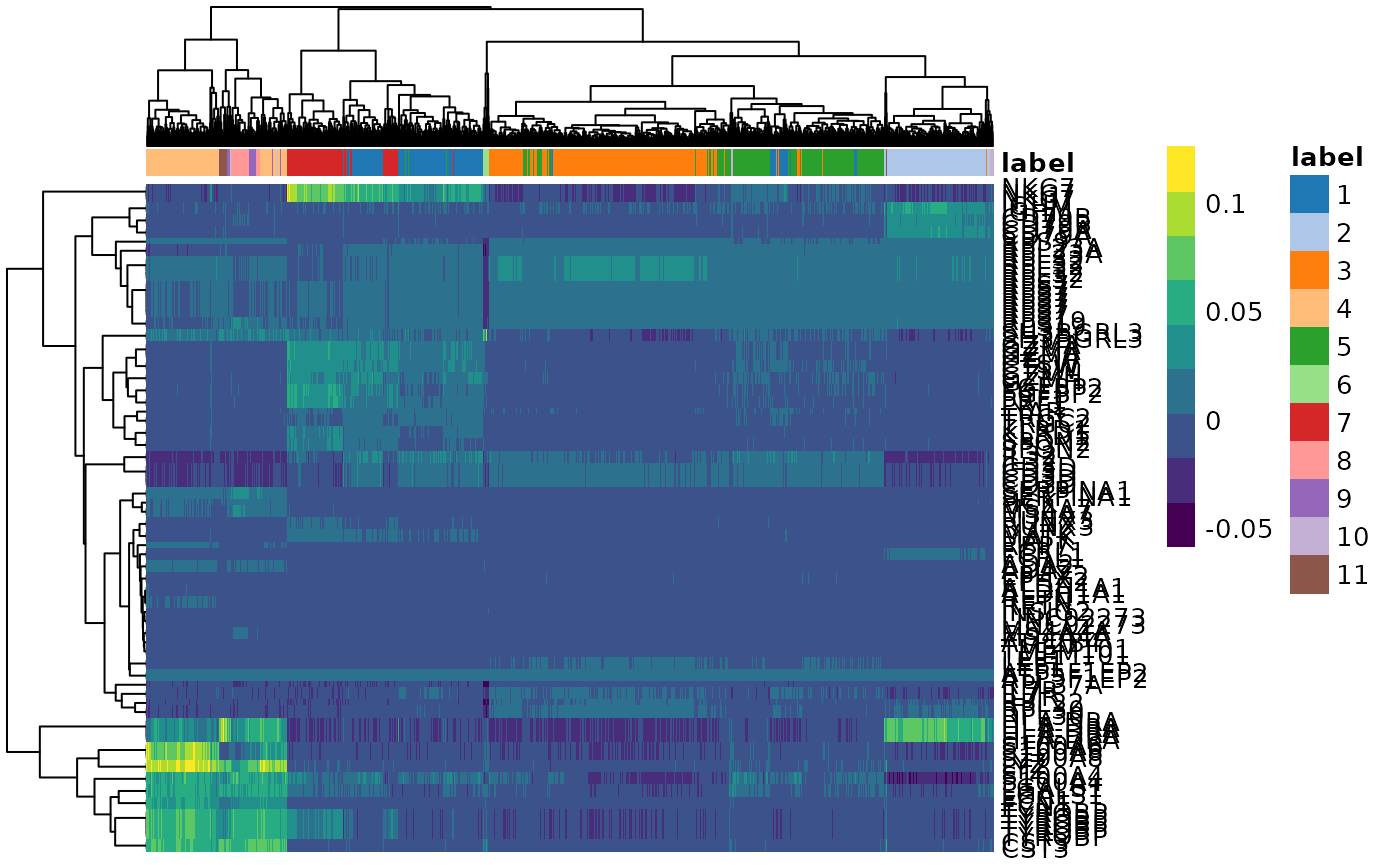
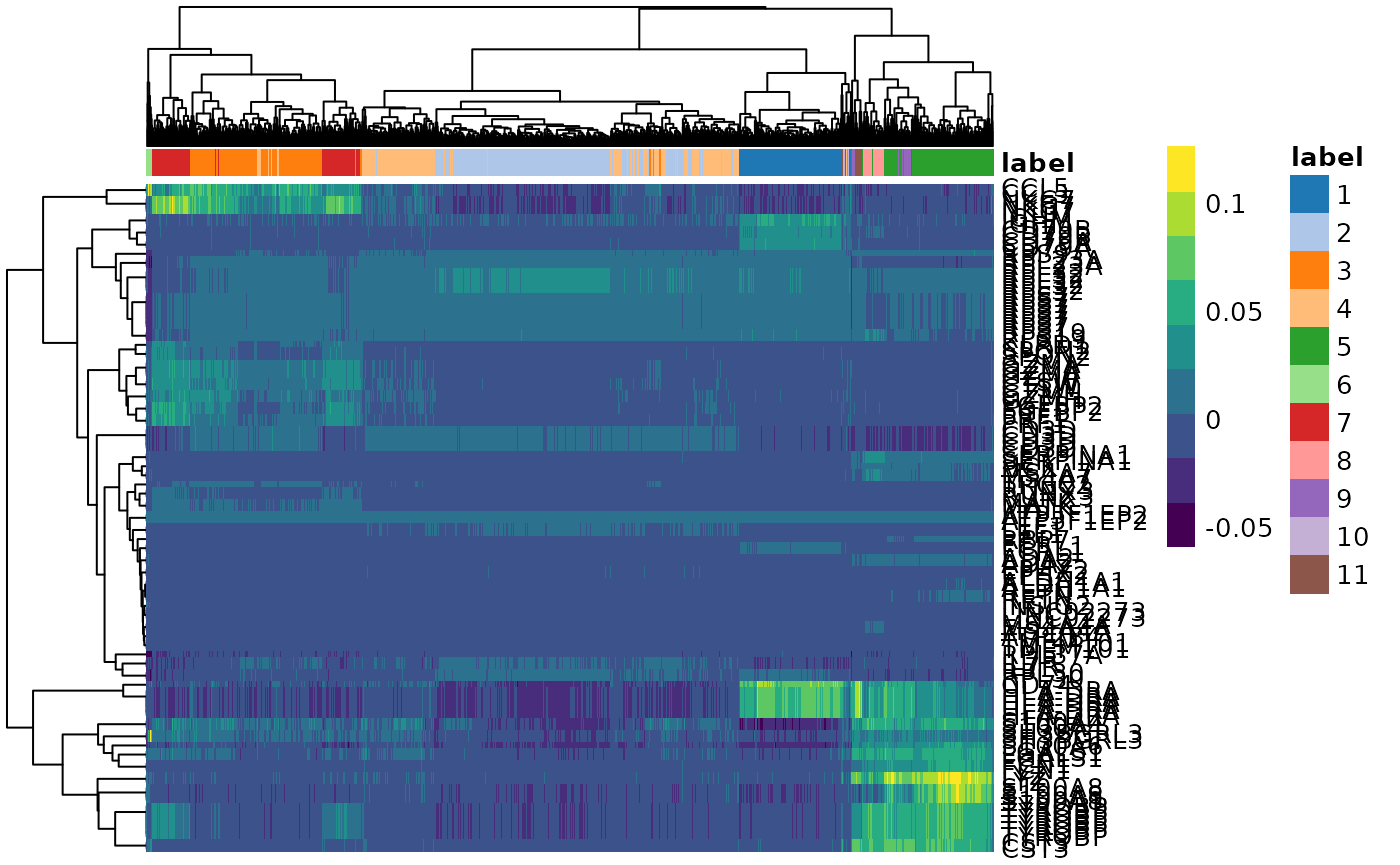
Deploying to gh-pages from  @ f514513d57ef119133c4dfdb3653fa5eb1973ccf 🚀

Changed region(s): [[0.0, 0.0, 0.8293, 0.9988], [0.86, 0.5931, 0.9214, 0.6243], [0.215, 0.0312, 0.2457, 0.0624]]

diff --git a/articles/tidytranscriptomics.html b/articles/tidytranscriptomics.html
@@ -93,8 +93,7 @@
 <div id="workshop-introduction" class="section level1">
 <h1 class="hasAnchor">
 <a href="#workshop-introduction" class="anchor"></a>Workshop introduction</h1>
-<p>Background information and setup instructions for this workshop can be found <a href="https://stemangiola.github.io/bioc2021_tidytranscriptomics/articles/background.html">here</a>.</p>
-<p>This workshop will present how to perform analysis of RNA sequencing data following the tidy data paradigm <span class="citation">(Wickham and others 2014)</span>. The tidy data paradigm provides a standard way to organise data values within a dataset, where each variable is a column, each observation is a row, and data is manipulated using an easy-to-understand vocabulary. Most importantly, the data structure remains consistent across manipulation and analysis functions. This can be achieved for RNA sequencing data with the <a href="https://stemangiola.github.io/tidybulk/">tidybulk</a>, <a href="https://stemangiola.github.io/tidySummarizedExperiment/">tidySummarizedExperiment</a> and <a href="https://stemangiola.github.io/tidySingleCellExperiment/">tidySingleCellExperiment</a> packages. These packages are part of the tidytranscriptomics suite that introduces a tidy approach to RNA sequencing data representation and analysis. The roadmap for the development of the tidytranscriptomics packages is shown in the figure below.</p>
+<p><a href="https://stemangiola.github.io/tidybulk/">tidybulk</a>, <a href="https://stemangiola.github.io/tidySummarizedExperiment/">tidySummarizedExperiment</a> and <a href="https://stemangiola.github.io/tidySingleCellExperiment/">tidySingleCellExperiment</a> are part of the tidytranscriptomics suite that introduces a tidy approach to RNA sequencing data representation and analysis. The roadmap for the development of the tidytranscriptomics packages is shown in the figure below.</p>
 <p><img src="../inst/vignettes/roadmap.png" width="600px"></p>
 </div>
 <div id="part-1-bulk-rna-seq-with-tidysummarizedexperiment-and-tidybulk" class="section level1">
@@ -180,7 +179,7 @@
 <p>If we load the <em>tidySummarizedExperiment</em> package and then view the airway data it now displays as a tibble. A tibble is the tidyverse table format.</p>
 <div class="sourceCode" id="cb4"><pre class="downlit sourceCode r">
 <code class="sourceCode R"><span class="co"># load tidySummarizedExperiment package</span>
-<span class="kw"><a href="https://rdrr.io/r/base/library.html">library</a></span><span class="op">(</span><span class="va">tidySummarizedExperiment</span><span class="op">)</span>
+<span class="kw"><a href="https://rdrr.io/r/base/library.html">library</a></span><span class="op">(</span><span class="va"><a href="https://github.com/stemangiola/tidySummarizedExperiment">tidySummarizedExperiment</a></span><span class="op">)</span>
 
 <span class="co"># take a look</span>
 <span class="va">airway</span>
@@ -674,15 +673,17 @@
   <span class="fu"><a href="https://ggplot2.tidyverse.org/reference/scale_continuous.html">scale_y_continuous</a></span><span class="op">(</span>trans <span class="op">=</span> <span class="st">"log10_reverse"</span><span class="op">)</span> <span class="op">+</span>
   <span class="va">custom_theme</span></code></pre></div>
 <p><img src="tidytranscriptomics_files/figure-html/unnamed-chunk-28-1.png" width="70%"></p>
-<p>A more informative plot, integrating some of the packages in tidyverse.</p>
-<p>We’ll extract the symbols for a few top genes (by P value) to use in some of the plots we will make.</p>
+<p>We’ll extract the symbols for a few top genes (by P value) to use in a more informative volcano plot, integrating some of the packages in tidyverse.</p>
 <div class="sourceCode" id="cb26"><pre class="downlit sourceCode r">
 <code class="sourceCode R"><span class="va">topgenes_symbols</span> <span class="op">&lt;-</span>
   <span class="va">counts_de</span> <span class="op">%&gt;%</span>
   <span class="fu"><a href="https://rdrr.io/pkg/tidybulk/man/pivot_transcript-methods.html">pivot_transcript</a></span><span class="op">(</span><span class="op">)</span> <span class="op">%&gt;%</span>
   <span class="fu"><a href="https://dplyr.tidyverse.org/reference/arrange.html">arrange</a></span><span class="op">(</span><span class="va">PValue</span><span class="op">)</span> <span class="op">%&gt;%</span>
   <span class="fu"><a href="https://rdrr.io/r/utils/head.html">head</a></span><span class="op">(</span><span class="fl">6</span><span class="op">)</span> <span class="op">%&gt;%</span>
-  <span class="fu"><a href="https://rdrr.io/pkg/tidySummarizedExperiment/man/dplyr-methods.html">pull</a></span><span class="op">(</span><span class="va">symbol</span><span class="op">)</span></code></pre></div>
+  <span class="fu"><a href="https://rdrr.io/pkg/tidySummarizedExperiment/man/dplyr-methods.html">pull</a></span><span class="op">(</span><span class="va">symbol</span><span class="op">)</span>
+
+<span class="va">topgenes_symbols</span>
+<span class="co">#&gt; [1] "CACNB2"  "ZBTB16"  "PRSS35"  "PDPN"    "SPARCL1" "DUSP1"</span></code></pre></div>
 <div class="sourceCode" id="cb27"><pre class="downlit sourceCode r">
 <code class="sourceCode R"><span class="va">counts_de</span> <span class="op">%&gt;%</span>
   <span class="fu"><a href="https://rdrr.io/pkg/tidybulk/man/pivot_transcript-methods.html">pivot_transcript</a></span><span class="op">(</span><span class="op">)</span> <span class="op">%&gt;%</span>
@@ -880,7 +881,7 @@
 <div id="part-2-single-cell-rna-seq-with-tidysinglecellexperiment" class="section level1">
 <h1 class="hasAnchor">
 <a href="#part-2-single-cell-rna-seq-with-tidysinglecellexperiment" class="anchor"></a>Part 2 Single-cell RNA-seq with tidySingleCellExperiment</h1>
-<p>A typical scRNA-seq workflow is shown in <a href="https://stemangiola.github.io/bioc2021_tidytranscriptomics/articles/background.html#differences-between-bulk-and-single-cell-rna-sequencing-1">Background information</a>. We don’t have time in this workshop to go into depth on each step but you can read more about scRNA-seq workflows in the online book <a href="http://bioconductor.org/books/release/OSCA/index.html">Orchestrating Single-Cell Analysis with Bioconductor</a>.</p>
+<p>A typical scRNA-seq workflow is shown in <a href="https://stemangiola.github.io/rladiestunis2021_tidytranscriptomics/articles/background.html#differences-between-bulk-and-single-cell-rna-sequencing-1">Background information</a>. We don’t have time in this workshop to go into depth on each step but you can read more about scRNA-seq workflows in the online book <a href="http://bioconductor.org/books/release/OSCA/index.html">Orchestrating Single-Cell Analysis with Bioconductor</a>.</p>
 <p>In Part 1 we showed how we can study the cell-type composition of a biological sample using bulk RNA sequencing. Single cell sequencing enables a more direct estimation of cell-type composition and gives greater resolution. For bulk RNA sequencing we need to infer the cell types using the abundance of transcripts in the whole sample, with single-cell RNA sequencing we can directly measure the transcripts in each cell and then classify the cells into cell types.</p>
 <div class="sourceCode" id="cb33"><pre class="downlit sourceCode r">
 <code class="sourceCode R"><span class="co"># load packages</span>
@@ -895,7 +896,7 @@
 <span class="kw"><a href="https://rdrr.io/r/base/library.html">library</a></span><span class="op">(</span><span class="va">EnsDb.Hsapiens.v86</span><span class="op">)</span>
 <span class="kw"><a href="https://rdrr.io/r/base/library.html">library</a></span><span class="op">(</span><span class="va"><a href="https://github.com/LTLA/celldex">celldex</a></span><span class="op">)</span>
 <span class="kw"><a href="https://rdrr.io/r/base/library.html">library</a></span><span class="op">(</span><span class="va"><a href="https://github.com/eclarke/ggbeeswarm">ggbeeswarm</a></span><span class="op">)</span>
-<span class="kw"><a href="https://rdrr.io/r/base/library.html">library</a></span><span class="op">(</span><span class="va">tidySingleCellExperiment</span><span class="op">)</span></code></pre></div>
+<span class="kw"><a href="https://rdrr.io/r/base/library.html">library</a></span><span class="op">(</span><span class="va"><a href="https://github.com/stemangiola/tidySingleCellExperiment">tidySingleCellExperiment</a></span><span class="op">)</span></code></pre></div>
 <div id="introduction-to-tidysinglecellexperiment" class="section level2">
 <h2 class="hasAnchor">
 <a href="#introduction-to-tidysinglecellexperiment" class="anchor"></a>Introduction to tidySingleCellExperiment</h2>
@@ -1257,16 +1258,16 @@
 <span class="co">#&gt; [90m# Features=51958 | Assays=reconstructed[39m</span>
 <span class="co">#&gt;    cell       label batch corrected1 corrected2 corrected3 corrected4 corrected5</span>
 <span class="co">#&gt;    &lt;chr&gt;      &lt;fct&gt; &lt;int&gt;      &lt;dbl&gt;      &lt;dbl&gt;      &lt;dbl&gt;      &lt;dbl&gt;      &lt;dbl&gt;</span>
-<span class="co">#&gt;  1 CCAGTCACA… 4         1   -0.0644     -0.334      0.0725    -0.0560   -0.0739 </span>
-<span class="co">#&gt;  2 ATGAGCACA… 3         1   -0.178       0.0166     0.122     -0.122     0.0233 </span>
-<span class="co">#&gt;  3 TATGAATGG… 7         1   -0.0602     -0.0357    -0.127     -0.293     0.0128 </span>
-<span class="co">#&gt;  4 CATATAGAC… 11        1   -0.0760     -0.282      0.121     -0.0546   -0.00286</span>
-<span class="co">#&gt;  5 GAGGCAGAC… 1         1   -0.0756     -0.0424    -0.0977    -0.259     0.0248 </span>
-<span class="co">#&gt;  6 AGCTGCCTT… 5         1   -0.117      -0.0242     0.0729    -0.159     0.0170 </span>
-<span class="co">#&gt;  7 TGATTAGAT… 2         1   -0.146      -0.0752     0.143     -0.0488    0.0915 </span>
-<span class="co">#&gt;  8 ACGAAGCTC… 2         1   -0.119      -0.108      0.127     -0.0505    0.0624 </span>
-<span class="co">#&gt;  9 CGGCATCTT… 4         1   -0.00938    -0.407      0.0466    -0.0803   -0.0522 </span>
-<span class="co">#&gt; 10 ATAGCGTGC… 4         1   -0.0561     -0.367      0.105     -0.0590   -0.0610 </span>
+<span class="co">#&gt;  1 CCAGTCACA… 5         1   -0.0643     -0.334     -0.0725     0.0559    0.0739 </span>
+<span class="co">#&gt;  2 ATGAGCACA… 2         1   -0.178       0.0166    -0.122      0.122    -0.0234 </span>
+<span class="co">#&gt;  3 TATGAATGG… 7         1   -0.0602     -0.0356     0.127      0.293    -0.0128 </span>
+<span class="co">#&gt;  4 CATATAGAC… 11        1   -0.0760     -0.282     -0.121      0.0546    0.00286</span>
+<span class="co">#&gt;  5 GAGGCAGAC… 3         1   -0.0757     -0.0424     0.0977     0.259    -0.0248 </span>
+<span class="co">#&gt;  6 AGCTGCCTT… 4         1   -0.117      -0.0242    -0.0729     0.159    -0.0170 </span>
+<span class="co">#&gt;  7 TGATTAGAT… 1         1   -0.146      -0.0752    -0.143      0.0488   -0.0915 </span>
+<span class="co">#&gt;  8 ACGAAGCTC… 1         1   -0.119      -0.108     -0.127      0.0505   -0.0624 </span>
+<span class="co">#&gt;  9 CGGCATCTT… 5         1   -0.00930    -0.407     -0.0466     0.0803    0.0523 </span>
+<span class="co">#&gt; 10 ATAGCGTGC… 5         1   -0.0560     -0.367     -0.105      0.0589    0.0610 </span>
 <span class="co">#&gt; # … with 2,889 more rows</span></code></pre></div>
 <p>Thanks to tidySingleCellExperiment we can interrogate the object with tidyverse commands and use <code>count</code> to count the number of cells in each cluster.</p>
 <div class="sourceCode" id="cb51"><pre class="downlit sourceCode r">
@@ -1275,13 +1276,13 @@
 <span class="co">#&gt; # A tibble: 11 x 2</span>
 <span class="co">#&gt;    label     n</span>
 <span class="co">#&gt;    &lt;fct&gt; &lt;int&gt;</span>
-<span class="co">#&gt;  1 1       478</span>
-<span class="co">#&gt;  2 2       367</span>
-<span class="co">#&gt;  3 3       735</span>
-<span class="co">#&gt;  4 4       339</span>
-<span class="co">#&gt;  5 5       547</span>
+<span class="co">#&gt;  1 1       367</span>
+<span class="co">#&gt;  2 2       729</span>
+<span class="co">#&gt;  3 3       438</span>
+<span class="co">#&gt;  4 4       594</span>
+<span class="co">#&gt;  5 5       339</span>
 <span class="co">#&gt;  6 6        21</span>
-<span class="co">#&gt;  7 7       257</span>
+<span class="co">#&gt;  7 7       256</span>
 <span class="co">#&gt;  8 8        74</span>
 <span class="co">#&gt;  9 9        41</span>
 <span class="co">#&gt; 10 10       14</span>
@@ -1369,11 +1370,11 @@
 <span class="co">#&gt; # A tibble: 11 x 2</span>
 <span class="co">#&gt;    label first.labels   </span>
 <span class="co">#&gt;    &lt;chr&gt; &lt;chr&gt;          </span>
-<span class="co">#&gt;  1 1     NK cells       </span>
-<span class="co">#&gt;  2 2     B-cells        </span>
-<span class="co">#&gt;  3 3     Skeletal muscle</span>
-<span class="co">#&gt;  4 4     Monocytes      </span>
-<span class="co">#&gt;  5 5     Fibroblasts    </span>
+<span class="co">#&gt;  1 1     B-cells        </span>
+<span class="co">#&gt;  2 2     Skeletal muscle</span>
+<span class="co">#&gt;  3 3     NK cells       </span>
+<span class="co">#&gt;  4 4     Fibroblasts    </span>
+<span class="co">#&gt;  5 5     Monocytes      </span>
 <span class="co">#&gt;  6 6     Smooth muscle  </span>
 <span class="co">#&gt;  7 7     NK cells       </span>
 <span class="co">#&gt;  8 8     Neutrophils    </span>
@@ -1393,16 +1394,16 @@
 <span class="co">#&gt; [90m# Features=51958 | Assays=reconstructed[39m</span>
 <span class="co">#&gt;    cell  first.labels batch label corrected1 corrected2 corrected3 corrected4</span>
 <span class="co">#&gt;    &lt;chr&gt; &lt;chr&gt;        &lt;int&gt; &lt;chr&gt;      &lt;dbl&gt;      &lt;dbl&gt;      &lt;dbl&gt;      &lt;dbl&gt;</span>
-<span class="co">#&gt;  1 CCAG… Monocytes        1 4       -0.0644     -0.334      0.0725    -0.0560</span>
-<span class="co">#&gt;  2 ATGA… Skeletal mu…     1 3       -0.178       0.0166     0.122     -0.122 </span>
-<span class="co">#&gt;  3 TATG… NK cells         1 7       -0.0602     -0.0357    -0.127     -0.293 </span>
-<span class="co">#&gt;  4 CATA… Monocytes        1 11      -0.0760     -0.282      0.121     -0.0546</span>
-<span class="co">#&gt;  5 GAGG… NK cells         1 1       -0.0756     -0.0424    -0.0977    -0.259 </span>
-<span class="co">#&gt;  6 AGCT… Fibroblasts      1 5       -0.117      -0.0242     0.0729    -0.159 </span>
-<span class="co">#&gt;  7 TGAT… B-cells          1 2       -0.146      -0.0752     0.143     -0.0488</span>
-<span class="co">#&gt;  8 ACGA… B-cells          1 2       -0.119      -0.108      0.127     -0.0505</span>
-<span class="co">#&gt;  9 CGGC… Monocytes        1 4       -0.00938    -0.407      0.0466    -0.0803</span>
-<span class="co">#&gt; 10 ATAG… Monocytes        1 4       -0.0561     -0.367      0.105     -0.0590</span>
+<span class="co">#&gt;  1 CCAG… Monocytes        1 5       -0.0643     -0.334     -0.0725     0.0559</span>
+<span class="co">#&gt;  2 ATGA… Skeletal mu…     1 2       -0.178       0.0166    -0.122      0.122 </span>
+<span class="co">#&gt;  3 TATG… NK cells         1 7       -0.0602     -0.0356     0.127      0.293 </span>
+<span class="co">#&gt;  4 CATA… Monocytes        1 11      -0.0760     -0.282     -0.121      0.0546</span>
+<span class="co">#&gt;  5 GAGG… NK cells         1 3       -0.0757     -0.0424     0.0977     0.259 </span>
+<span class="co">#&gt;  6 AGCT… Fibroblasts      1 4       -0.117      -0.0242    -0.0729     0.159 </span>
+<span class="co">#&gt;  7 TGAT… B-cells          1 1       -0.146      -0.0752    -0.143      0.0488</span>
+<span class="co">#&gt;  8 ACGA… B-cells          1 1       -0.119      -0.108     -0.127      0.0505</span>
+<span class="co">#&gt;  9 CGGC… Monocytes        1 5       -0.00930    -0.407     -0.0466     0.0803</span>
+<span class="co">#&gt; 10 ATAG… Monocytes        1 5       -0.0560     -0.367     -0.105      0.0589</span>
 <span class="co">#&gt; # … with 2,889 more rows, and 4 more variables: corrected5 &lt;dbl&gt;, UMAP1 &lt;dbl&gt;,</span>
 <span class="co">#&gt; #   UMAP2 &lt;dbl&gt;, UMAP3 &lt;dbl&gt;</span></code></pre></div>
 <p>We can easily summarise the results. For example, we can see how cell type classification overlaps with cluster classification.</p>
@@ -1412,15 +1413,15 @@
 <span class="co">#&gt; # A tibble: 11 x 3</span>
 <span class="co">#&gt;    label first.labels        n</span>
 <span class="co">#&gt;    &lt;chr&gt; &lt;chr&gt;           &lt;int&gt;</span>
-<span class="co">#&gt;  1 1     NK cells          478</span>
+<span class="co">#&gt;  1 1     B-cells           367</span>
 <span class="co">#&gt;  2 10    B-cells            14</span>
 <span class="co">#&gt;  3 11    Monocytes          26</span>
-<span class="co">#&gt;  4 2     B-cells           367</span>
-<span class="co">#&gt;  5 3     Skeletal muscle   735</span>
-<span class="co">#&gt;  6 4     Monocytes         339</span>
-<span class="co">#&gt;  7 5     Fibroblasts       547</span>
+<span class="co">#&gt;  4 2     Skeletal muscle   729</span>
+<span class="co">#&gt;  5 3     NK cells          438</span>
+<span class="co">#&gt;  6 4     Fibroblasts       594</span>
+<span class="co">#&gt;  7 5     Monocytes         339</span>
 <span class="co">#&gt;  8 6     Smooth muscle      21</span>
-<span class="co">#&gt;  9 7     NK cells          257</span>
+<span class="co">#&gt;  9 7     NK cells          256</span>
 <span class="co">#&gt; 10 8     Neutrophils        74</span>
 <span class="co">#&gt; 11 9     Macrophages        41</span></code></pre></div>
 </div>
@@ -1524,15 +1525,15 @@
 <span class="co">#&gt; [8] methods   base     </span>
 <span class="co">#&gt; </span>
 <span class="co">#&gt; other attached packages:</span>
-<span class="co">#&gt;  [1] tidySingleCellExperiment_1.3.0 ggbeeswarm_0.6.0              </span>
+<span class="co">#&gt;  [1] tidySingleCellExperiment_1.1.5 ggbeeswarm_0.6.0              </span>
 <span class="co">#&gt;  [3] celldex_1.3.0                  EnsDb.Hsapiens.v86_2.99.0     </span>
 <span class="co">#&gt;  [5] ensembldb_2.17.0               AnnotationFilter_1.17.0       </span>
 <span class="co">#&gt;  [7] GenomicFeatures_1.45.0         AnnotationDbi_1.55.0          </span>
 <span class="co">#&gt;  [9] SingleR_1.7.0                  batchelor_1.9.0               </span>
 <span class="co">#&gt; [11] igraph_1.2.6                   scran_1.21.1                  </span>
 <span class="co">#&gt; [13] scater_1.21.0                  scuttle_1.3.0                 </span>
-<span class="co">#&gt; [15] SingleCellExperiment_1.15.1    tidySummarizedExperiment_1.3.0</span>
-<span class="co">#&gt; [17] tidybulk_1.5.0                 tidyHeatmap_1.2.2             </span>
+<span class="co">#&gt; [15] SingleCellExperiment_1.15.1    tidySummarizedExperiment_1.1.6</span>
+<span class="co">#&gt; [17] tidybulk_1.3.3                 tidyHeatmap_1.2.2             </span>
 <span class="co">#&gt; [19] GGally_2.1.1                   ggrepel_0.9.1                 </span>
 <span class="co">#&gt; [21] plotly_4.9.3                   purrr_0.3.4                   </span>
 <span class="co">#&gt; [23] ggplot2_3.3.3                  stringr_1.4.0                 </span>
@@ -1678,9 +1679,6 @@ Racle, Julien, Kaat de Jonge, Petra Baumgaertner, Daniel E Speiser, and David Gf
 </div>
 <div id="ref-robinson2010scaling" class="csl-entry">
 Robinson, Mark D, and Alicia Oshlack. 2010. <span>“A Scaling Normalization Method for Differential Expression Analysis of RNA-Seq Data.”</span> <em>Genome Biology</em> 11 (3): 1–9.
-</div>
-<div id="ref-wickham2014tidy" class="csl-entry">
-Wickham, Hadley, and others. 2014. <span>“Tidy Data.”</span> <em>Journal of Statistical Software</em> 59 (10): 1–23.
 </div>
 </div>
 </div>

diff --git a/index.html b/index.html
@@ -145,7 +145,7 @@ browseVignettes("bioc2021tidytranscriptomics")</a></code></pre>
 <div id="workshop-participation" class="section level3">
 <h3 class="hasAnchor">
 <a href="#workshop-participation" class="anchor"></a>Workshop Participation</h3>
-<p>The workshop format is a 1.5 hour session consisting of hands-on demos and Q&amp;A.</p>
+<p>The workshop format is a 2 hour session consisting of hands-on demos and Q&amp;A.</p>
 </div>
 <div id="r--bioconductor-packages-used" class="section level3">
 <h3 class="hasAnchor">
@@ -179,15 +179,15 @@ browseVignettes("bioc2021tidytranscriptomics")</a></code></pre>
 <tbody>
 <tr class="odd">
 <td>Part 1 Bulk RNA-seq with tidybulk</td>
-<td>45</td>
+<td>60</td>
 </tr>
 <tr class="even">
 <td>Part 2 Single-cell RNA-seq with tidySingleCellExperiment</td>
-<td>45</td>
+<td>60</td>
 </tr>
 <tr class="odd">
 <td>Total</td>
-<td>90m</td>
+<td>120m</td>
 </tr>
 </tbody>
 </table>
